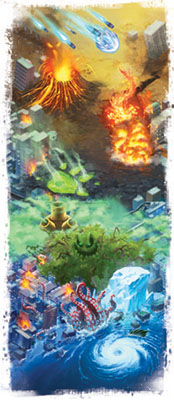
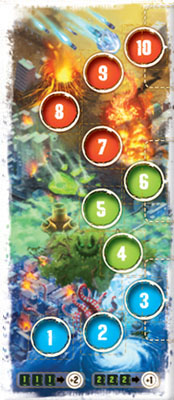
resize reducted tiles

diff --git a/src/_table.scss b/src/_table.scss
@@ -127,13 +127,13 @@
                 display: inline-block;
 
                 #wickedness-tiles-reduced-3 {
-                    top: 300px;
+                    top: 258px;
                 }
                 #wickedness-tiles-reduced-6 {
-                    top: 180px;
+                    top: 141px;
                 }
                 #wickedness-tiles-reduced-10 {
-                    top: 60px;
+                    top: 6px;
                 }
 
                 #wickedness-tiles-expanded-3 {
@@ -151,13 +151,14 @@
                     position: absolute;
                     left: 174px;
                     width: 26px;
-                    height: 100px;
+                    height: 80px; // TODOWI
 
                     .wickedness-tiles-reduced-tile {
                         position: absolute;
                         width: 26px;
-                        height: 100px;
+                        height: 80px; // TODOWI
                         background: url('img/green-wickedness-tiles.jpg');
+                        border-radius: 10px;
                     }
                 }
 

diff --git a/koth.css b/koth.css
@@ -957,13 +957,13 @@
   display: inline-block;
 }
 #table #table-center #full-board #wickedness-board #wickedness-tiles-reduced-3 {
-  top: 300px;
+  top: 258px;
 }
 #table #table-center #full-board #wickedness-board #wickedness-tiles-reduced-6 {
-  top: 180px;
+  top: 141px;
 }
 #table #table-center #full-board #wickedness-board #wickedness-tiles-reduced-10 {
-  top: 60px;
+  top: 6px;
 }
 #table #table-center #full-board #wickedness-board #wickedness-tiles-expanded-3 {
   bottom: 10px;
@@ -978,13 +978,14 @@
   position: absolute;
   left: 174px;
   width: 26px;
-  height: 100px;
+  height: 80px;
 }
 #table #table-center #full-board #wickedness-board .wickedness-tiles-reduced .wickedness-tiles-reduced-tile {
   position: absolute;
   width: 26px;
-  height: 100px;
+  height: 80px;
   background: url("img/green-wickedness-tiles.jpg");
+  border-radius: 10px;
 }
 #table #table-center #full-board #wickedness-board .wickedness-tiles-expanded {
   position: absolute;
